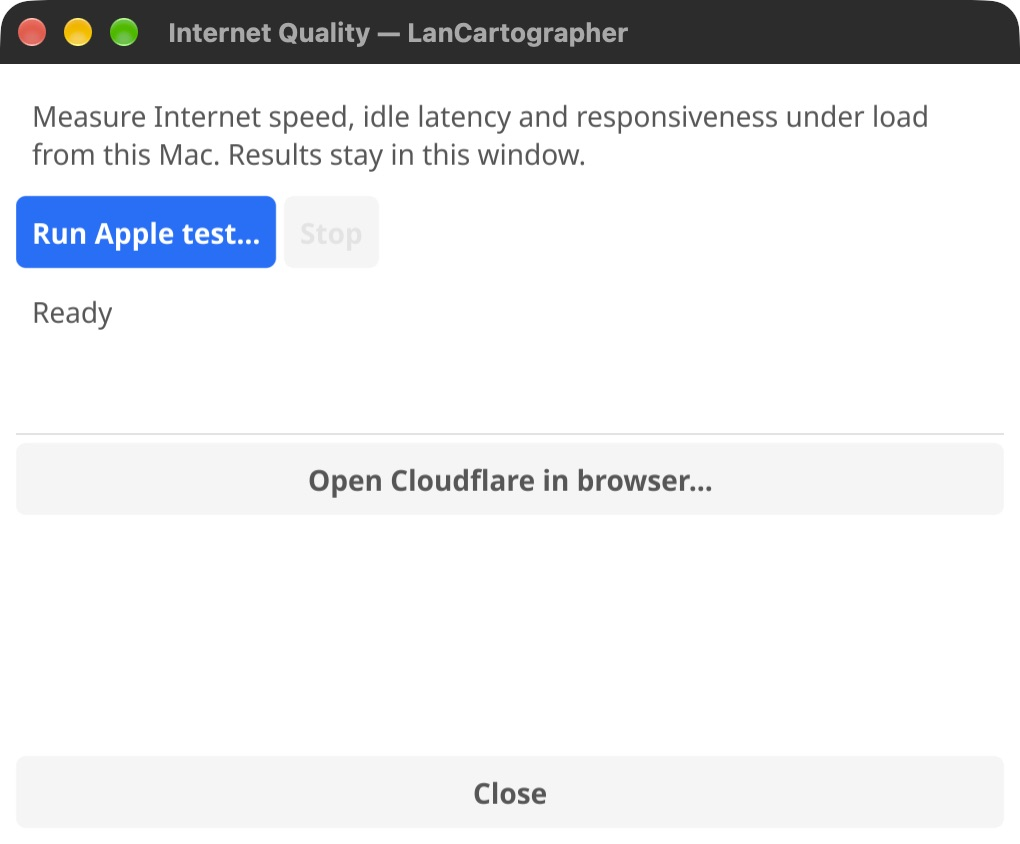
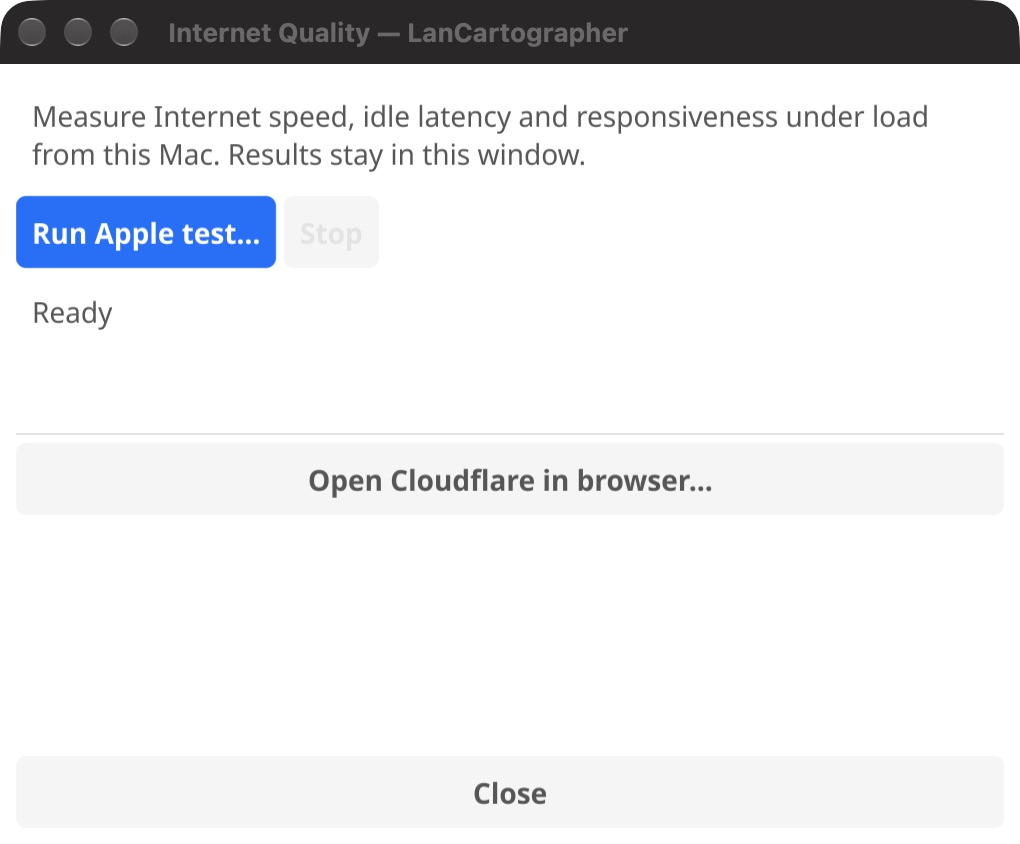
Record Internet Quality acceptance and cover scan handoff

Changed region(s): [[0.0, 0.0, 0.6078, 0.0616]]

diff --git a/internal/gui/internet_quality_darwin_test.go b/internal/gui/internet_quality_darwin_test.go
@@ -5,6 +5,7 @@ package gui
 import (
 	"context"
 	"errors"
+	"net/netip"
 	"strings"
 	"testing"
 	"time"
@@ -57,5 +58,22 @@ func TestInternetQualityProcessBounds(t *testing.T) {
 	}
 	if _, err := runQualityCommand(t.Context(), t.TempDir()+"/missing"); err == nil || !strings.Contains(err.Error(), "unavailable") {
 		t.Fatalf("missing command error = %v", err)
+	}
+}
+
+func TestInternetQualityScanWaitsForMeasurement(t *testing.T) {
+	u := newTestUI(t)
+	ctx, cancel := context.WithCancel(t.Context())
+	defer cancel()
+	job := &qualityJob{view: &qualityView{}, ctx: ctx, cancel: cancel, done: make(chan struct{})}
+	u.qualityJob = job
+	target := netip.MustParsePrefix("127.0.0.1/32")
+	u.startScan(target)
+	if ctx.Err() != context.Canceled || job.scanAfter != target {
+		t.Fatalf("scan did not cancel the measurement and queue its approved target: %v, %v", ctx.Err(), job.scanAfter)
+	}
+	u.startScan(netip.MustParsePrefix("127.0.0.2/32"))
+	if u.scanning || u.currentSession != nil || job.scanAfter != target {
+		t.Fatalf("scan changed inventory or replaced its queued target before reap: %v, %v", u.scanning, job.scanAfter)
 	}
 }

diff --git a/docs/verification/internet-quality-2026-11-07.md b/docs/verification/internet-quality-2026-11-07.md
@@ -1,0 +1,58 @@
+# Internet Quality verification
+
+November 7, 2026. Source commit `992cef1` on `453ae90`. Subsequent evidence
+and focused-test edits leave the packaged source unchanged. Go 1.27.3, Fyne
+2.8.2, macOS 27.2 build 26B123 on arm64. The signed bundle executable and
+maintained development copy matched SHA-256
[1 lines of base64/hex data omitted]
+
+## Local checks
+
+| Check | Result |
+| --- | --- |
+| `bash deploy/build.sh` | Built and ad-hoc signed the arm64 app and built the CLI and ZIP. |
+| `python3 tests/macos-smoke.py dist` | Verified bundle minimum metadata and license. Both packaged CLI entry points refused an unconfirmed loopback scan, then inventoried the owned HTTP fixture and exported JSON after authorization. |
+| `go test ./internal/gui -run '^TestInternetQuality' -count=1` | Exercised real child processes with valid and legacy JSON, structured offline error with exit zero, malformed or incomplete data, missing executable, timeout and output overflow. Exercised the GUI scan entry point with a pending job and confirmed the approved scan waits for teardown. |
+| `go vet ./internal/gui`, `git diff --check` | Passed. |
+
+The shell sandbox prevented `iconutil` from creating the bundle icon from
+correctly sized PNGs. The supported build command completed outside that
+sandbox without any packaging changes.
+
+## Native observations
+
+- The rebased package opened **Tools → Internet Quality…** at Ready.
+  Keyboard navigation opened and confirmed the Apple disclosure. The
+  provider completed live and the window painted download, upload, idle
+  latency, RPM, interface and observation time. A separate same-run Apple
+  summary and JSON qualification confirmed the JSON throughput is in bits
+  per second on this OS. The UI uses decimal Mbps. Apple's human summary
+  divided the observed integer values by 1,048,576.
+- On the earlier candidate with the same measurement and Stop logic, Stop
+  rendered Cancelled and removed the observed child. On the earlier
+  candidate with the final Close and browser code, Close removed an
+  observed child and left inventory open. Reopening returned to Ready.
+- On the rebased package, the separate Cloudflare disclosure preceded a
+  successful handoff to `https://speed.cloudflare.com/` in Safari. The
+  Cloudflare measurement was left idle.
+- The rebased GUI accepted an owned `127.0.0.1/32` scan, showed the owned
+  HTTP fixture on port 8080, reached 100%, opened the inventory export
+  dialog and populated Sessions from the completed scan. GUI export was
+  inspected through its save dialog. Packaged CLI smoke exercised the write.
+
+[Before](internet-quality/before.jpg) shows the baseline inventory toolbar
+cropped above the host rows. [After](internet-quality/after.jpg) shows the
+fresh packaged diagnostic at Ready. Neither screenshot contains a provider
+result or discovered host data.
+
+## Remaining coverage
+
+The command fixtures cover missing executable, offline error, malformed
+output and timeout without changing host network or system binaries.
+Native minimum macOS 13, Intel, Windows GUI, and downloaded release
+acceptance remain unverified. The archived macOS 13 manual and the current
+manual describe different throughput units, so same-run minimum-OS
+calibration remains an acceptance item in
+[#33](https://github.com/cgfixit/LanCartographer/issues/33). Keep the live
+Apple and browser tests out of hosted CI. The hosted jobs cover their
+configured build and test matrix.

diff --git a/docs/README.md b/docs/README.md
@@ -1,7 +1,7 @@
 # Documentation and verification
 
 Use the [README](../README.md) for features/builds, the
-[User Guide](../USER-GUIDE.md) for scan and session workflows,
+[User Guide](../USER-GUIDE.md) for scan, session and Internet Quality workflows,
 [update guide](../update-guide.md) for replacing builds, and
 [contributor guide](../CONTRIBUTING.md#dependency-maintenance) for dependency
 maintenance. [Support](../SUPPORT.md) and [security reporting](../SECURITY.md)
@@ -16,6 +16,7 @@ dependency set, native platform or downloaded release.
 | Record | Coverage |
 | --- | --- |
 | [Dependency refresh, 2026-11-01](verification/dependencies-2026-11-01.md) | Go 1.27.3/Fyne 2.8.2 package, owned CLI smoke, focused checks and native session dialogs/themes |
+| [Internet Quality, 2026-11-07](verification/internet-quality-2026-11-07.md) | Live Apple measurement, native stop/close, browser handoff and packaged loopback smoke |
 | [Saved sessions, 2026-11-01](verification/sessions-2026-11-01.md) | Owned service change, save/reload, coverage comparison, selected redaction/export, light/dark native interaction and explicit platform limits |
 | [macOS packaging and native workflow](macos-verification.md) | Packaged CLI and native GUI results at the recorded revisions |
 | [CSV export, 2026-10-13](csv-verification-2026-10-13.md) | Historical CSV escaping/formula-prefix verification |
